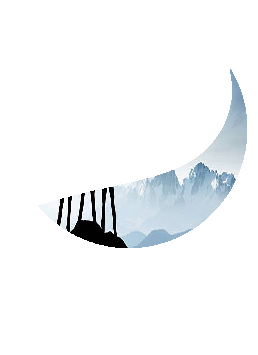
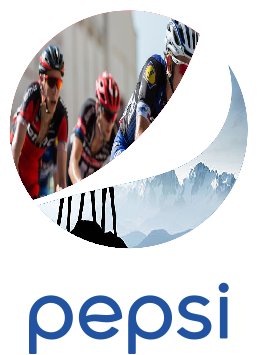
minor update
working perfectly

diff --git a/mask.py b/mask.py
@@ -133,8 +133,8 @@ def pepsi(directory=None):
     top = redlogo(topp,red,template)
     bottom = bluelogo(bottomm,blue,template)
     new_image = template
-    new_image.paste(top,(0,0))
-    new_image.paste(bottom,(0,0))
+    new_image.paste(bottom,(0,0), mask=bottom)
+    new_image.paste(top,(0,0), mask=top)
     #save the altered image, suing PNG to retain transparency
     new_image_filename = os.path.join(new_directory, 'final' + '.png')
     new_image.save(new_image_filename)    #9b: 
